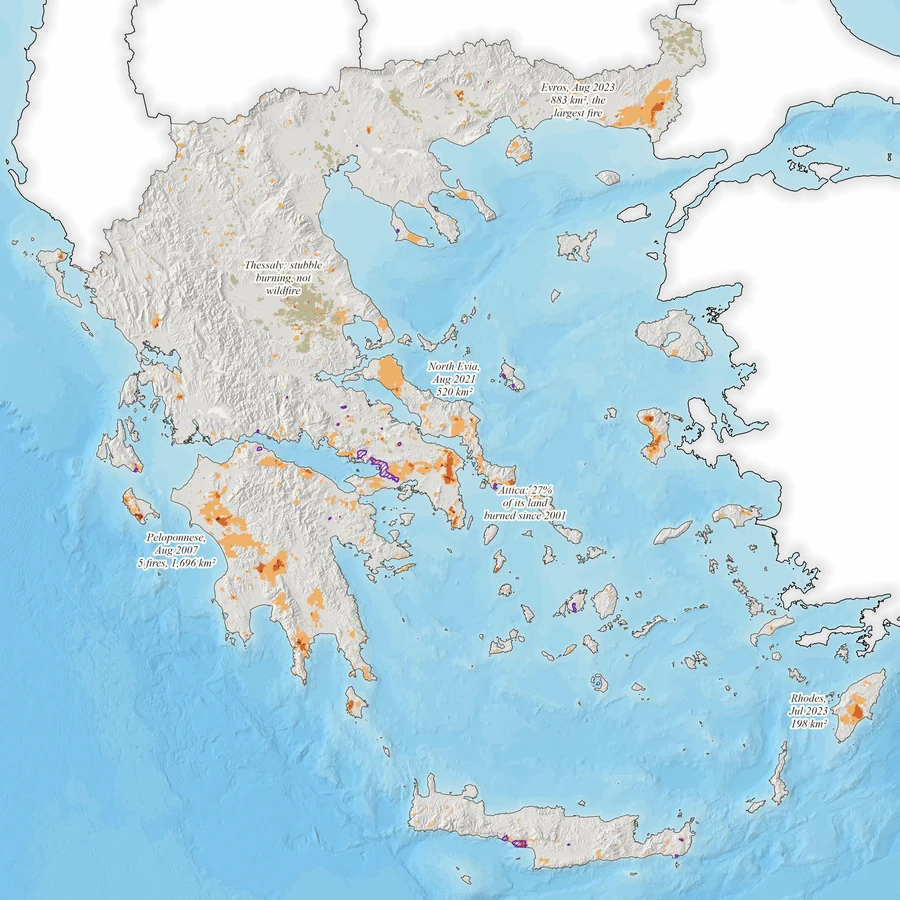
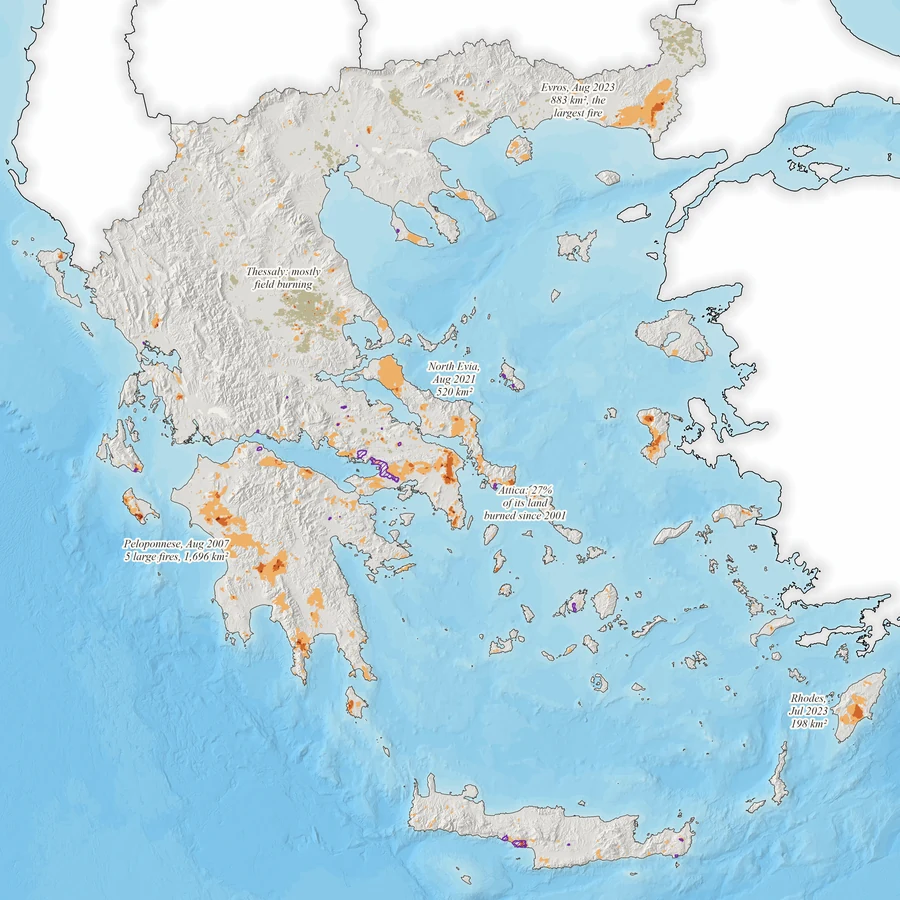
Day 29: error check (land cover judged on the fires after the 2018 map, with and without 2021 and 2023; arable patches called likely farm burning; heat matched by place and date; threshold range, counts and causes corrected)

Changed region(s): [[0.1244, 0.5911, 0.28, 0.6533], [0.2489, 0.28, 0.3733, 0.3422]]

diff --git a/src/content/projects/30dmc-2026-day-29-raster.md b/src/content/projects/30dmc-2026-day-29-raster.md
@@ -1,6 +1,6 @@
 ---
 title: 'Day 29 - Raster: What Burns'
-summary: 'Twenty-five fire seasons of MODIS burned area over Greece, laid on land cover, terrain and buildings. 38% of what the satellite marks as burned turns out to be farm burning; of the wildfire, shrubland burns most and broad-leaved forest least, and in Attica 27% of the land has burned since 2001. Pick a land cover or a slope and see where it burned.'
+summary: 'Twenty-five fire seasons of MODIS burned area over Greece, laid on land cover, terrain and buildings. 38% of the burned area is in patches mostly on arable land, likely farm burning; of the wildfire since the 2018 land cover map, woodland-shrub burned twice its share, and in Attica 27% of the land has burned since 2001. Pick a land cover or a slope and see where it burned.'
 date: 2026-11-29
 created: 2026-11-22
 category: '30-day-map-challenge'
@@ -8,7 +8,7 @@ context: '#30DayMapChallenge 2026 · Day 29'
 tags: ['ArcGIS Pro', 'Python', 'Leaflet', 'Wildfire', 'Remote sensing']
 image: '/images/30dmc-2026-day-29-wide.webp'
 imageFull: '/images/30dmc-2026-day-29-full.webp'
-imageAlt: 'Printed A4 sheet titled What Burns: Greece in grey relief with land burned by wildfire in 2001-2025 in pale to deep orange, farm burning in khaki on the plains of Thessaly and Thrace, and the 2026 wildfires hatched purple; notes name Evros 2023, North Evia 2021, the Peloponnese fires of 2007 and Rhodes 2023; a close-up of Attica shows burns reaching the edge of Athens, and a column charts the burned area of every year; the side panel holds a legend, a bar chart of how often each land cover burns against its share, a rose and bars for slope direction and steepness, and a chart of the burned area by month'
+imageAlt: 'Printed A4 sheet titled What Burns: Greece in gray relief with land burned by wildfire in 2001-2025 in pale to deep orange, likely farm burning in khaki, most of it on the plains of Thessaly and Thrace, and the 2026 wildfires hatched purple; notes name Evros 2023, North Evia 2021, the Peloponnese fires of 2007 and Rhodes 2023; a close-up of Attica shows burns reaching the edge of Athens, and a column charts the burned area of every year; the side panel holds a legend, a bar chart of how much of each 2018 land cover burned in 2019-2025 against its share, a rose and bars for slope direction and steepness, and a chart of the burned area by month'
 thumbnail: '/images/30dmc-2026-day-29-square.webp'
 thumbnailAlt: 'Map of Greece with wildfire burns in shades of orange, farm burning in khaki and the 2026 wildfires hatched purple'
 dataSource:
@@ -37,93 +37,99 @@ downloads:
     note: 'JPEG · 4724 × 4724 · 3.4 MB'
 map: '/data/30dmc-2026-day-29-burns.json'
 mapComponent: 'what-burns'
-mapCaption: 'Pick a land cover, a slope direction or a slope band: the land it covers is tinted blue and the wildfire on it shows in orange, the rest in grey. Click anywhere for its cover, slope and fire record.'
+mapCaption: 'Pick a land cover, a slope direction or a slope band: the land it covers is tinted blue and the wildfire on it shows in orange, the rest in gray. Click anywhere for its cover, slope and fire record.'
 draft: true
 ---
 
 **Prompt:** Raster.
 
-Every Greek summer burns, and since November 2000 a NASA satellite product,
-MODIS MCD64A1, has mapped where: 17,972 burn patches over Greece, each the land
-that burned on one day, at 500 m. This sheet lays twenty-five complete fire
-seasons, 2001 to 2025, on a 100 m grid of the land and asks what burns: which
-land cover, which slopes, and how close to people.
+Since November 2000 a NASA satellite product, MODIS MCD64A1, has mapped burned
+land over Greece: 17,972 patches to May 2026, each the land that burned on one
+day, at 500 m. This sheet lays twenty-five complete fire seasons, 2001 to 2025,
+on a 100 m grid and asks what burns: which land cover, which slopes, and how
+close to buildings.
 
 ## Not every burn is a wildfire
 
-The first result was wrong. Counted as they come, the burns made non-irrigated
-arable land burn 2.6 times its share of the land and rice fields 5.6 times,
-while forest burned less than half its share. MODIS sees every fire, including
-the stubble farmers burn off after the harvest, and some fields on the plains
-of Thessaly and Thrace burned in 12 of the 25 seasons.
+Counted as they come, the burns made non-irrigated arable land burn 2.6 times
+its share of the land and rice fields 5.6 times. MODIS also sees fields being
+burned, and some on the plain of Thessaly burned in 12 of the 25 seasons.
 
 So every patch is sorted first. A patch at least half on arable land (CORINE
-classes 211 to 213) counts as farm burning, the rest as wildfire. By that rule
-11,183 of the 17,916 patches, and **38% of the burned area, are farm burning**.
-The share moves little with the threshold: 36% at a third, 40% at seven
-tenths.
+classes 211 to 213) counts as likely farm burning, the rest as wildfire. By that
+rule 11,183 of the 17,916 patches, and **38% of the burned area**, are set
+apart. The share moves little with the threshold: 40% if three tenths of a patch
+must be arable, 36% if seven tenths.
 
-The split is made from land cover alone, so the fires' own heat can test it.
-The active-fire detections of MODIS and VIIRS measure each fire pixel's
-radiative power:
+The rule infers farm burning from land cover; nothing on the ground confirms it.
+The heat of the fires is a partial check. Each active fire was matched to the
+patch it lies in, within eight days of the patch's date:
 
-| Sensor | Farm burning, median | Wildfire, median | Farm burning, top 10% from | Wildfire, top 10% from |
+| Sensor | Likely farm burning, median | Wildfire, median | Farm, top 10% from | Wildfire, top 10% from |
 | --- | ---: | ---: | ---: | ---: |
-| MODIS (Terra, Aqua) | 13 MW | 56 MW | 46 MW | 409 MW |
-| VIIRS (Suomi NPP) | 4 MW | 10 MW | 13 MW | 70 MW |
-| VIIRS (NOAA-20) | 4 MW | 10 MW | 11 MW | 84 MW |
+| MODIS (Terra, Aqua) | 20 MW | 67 MW | 72 MW | 476 MW |
+| VIIRS (Suomi NPP) | 6 MW | 11 MW | 25 MW | 75 MW |
+| VIIRS (NOAA-20) | 6 MW | 11 MW | 50 MW | 89 MW |
 
-Farm burns are weaker by four times at the median on MODIS and by five to
-nine times at the top. The seasons part too: farm burning peaks in October,
-after the autumn harvests, wildfire in August. And farm burning all
-but stopped after 2020, from about 300 km² a year to under 50.
+The fires on the arable patches are weaker, by 3.3 times at the median on MODIS
+and 1.7 to 1.8 times on VIIRS. That fits the split without proving it. MODIS
+is not a separate witness either, as the burned-area product itself uses MODIS
+active fires; VIIRS is. The seasons differ too: the arable patches peak in
+October, wildfire in August. The arable patches shrank from about 300 km² a
+year in 2001-2020 to 46 in 2021-2025, a fall already under way by 2019. The
+data do not say why.
 
 ## What burns
 
-Of the wildfire, **9,052 km² of land burned at least once** in 2001-2025, 7%
-of Greece; 1,062 km² burned twice and 74 km² three times or more, up to seven.
-Panel A sets each land cover's share of the burned land against its share of
-all land:
+Of the wildfire, **9,052 km² of land burned at least once** in 2001-2025, 7% of
+Greece: 1,062 km² at least twice, and 74 km² three times or more, up to seven.
 
-| Land cover | Share of the land | Share of the wildfire | Burns |
-| --- | ---: | ---: | ---: |
-| Transitional woodland-shrub | 8.3% | 18.4% | 2.2× its share |
-| Sparse vegetation | 2.1% | 3.9% | 1.8× |
-| Sclerophyllous scrub (maquis) | 17.9% | 22.4% | 1.3× |
-| Olive groves | 6.3% | 6.9% | 1.1× |
-| Coniferous forest | 5.9% | 4.8% | 0.8× |
-| Broad-leaved forest | 9.8% | 3.0% | 0.3× |
-| Arable land, not irrigated | 9.0% | 2.8% | 0.3× |
+Land cover needs care. CORINE 2018 shows the land after most of these fires,
+and forest that burned in 2007 may be shrub by 2018. Measured over all 25
+seasons, conifers seemed to burn 0.8 times their share and mixed forest 1.2
+times. Panel A therefore uses only the fires after the map, 2019 to 2025:
 
-Shrub burns most. It is dry, fine and continuous fuel, and much of it is land
-that burned before and grew back as shrub. Broad-leaved forest, mostly oak and
-beech high in the north, burns least.
+| Land cover | Share of the land | Share of the wildfire, 2019-2025 | Burned, 2019-2025 | Without 2021 and 2023 |
+| --- | ---: | ---: | ---: | ---: |
+| Mixed forest | 4.6% | 11.4% | 2.5× its share | 0.6× |
+| Transitional woodland-shrub | 8.3% | 16.3% | 2.0× | 2.1× |
+| Coniferous forest | 5.9% | 8.7% | 1.5× | 0.9× |
+| Sclerophyllous scrub (maquis) | 17.9% | 21.2% | 1.2× | 1.2× |
+| Olive groves | 6.3% | 5.5% | 0.9× | 1.3× |
+| Natural grassland | 7.5% | 5.4% | 0.7× | 1.3× |
+| Broad-leaved forest | 9.8% | 5.6% | 0.6× | 0.2× |
+
+Seven seasons are few, and two of them, 2021 (North Evia) and 2023 (Evros), hold
+71% of the burned area. The last column leaves them out. Woodland-shrub burned
+about twice its share either way and broad-leaved forest stayed low; mixed
+forest and conifers depend on those two seasons, so their figures are not a
+general rate.
 
 ## Terrain
 
-On natural land, slopes facing south and south-west burn 1.14 and 1.12 times
-the average, those facing north 0.91 times: they dry out more. Steepness goes
-the other way from what fire physics alone would suggest. Fire runs faster
-uphill, yet slopes under 5 degrees burn 1.4 times the average and slopes over
-35 degrees only 0.4 times. The steep land is mostly high, cooler and wetter
-mountain, far from where fires start; the low hills are drier and next to
-people. The map does not claim that steepness protects.
+On natural land, slopes facing south and south-west burn 1.14 and 1.12 times the
+average, those facing north 0.91 times. Slopes under 5 degrees burn 1.4 times
+the average and slopes over 35 degrees 0.4 times, although fire runs faster
+uphill. Height explains part of it: land below 500 m burns 1.5 to 1.7 times the
+average, land above 800 m about a third of it or less. Below 500 m alone, the
+steepest slopes still burn less (0.45 times), for reasons not tested here. The
+map does not claim that steepness protects.
 
 ## Where it meets buildings
 
-GHSL's built-up surface for 2020 puts **76 km² of buildings within 500 m of
-land that burned** since 2001, 6.5% of all the built-up area in Greece; 11 km²
-stand within 500 m of land that burned twice or more. Attica stands out: 27%
-of its land has burned since 2001, a rate 4.3 times the country's, and 24 km²
-of its buildings, 11%, are within 500 m of a burn. The close-up shows the
-burns of Parnitha in 2007, Varnavas in 2009 and again in 2024, and Mati in
-2018, all at the edge of the city.
+GHSL's built-up surface for 2020 puts **76 km² of buildings within 500 m of land
+that burned** since 2001, 6.5% of the built-up area in Greece; 11 km² stand
+within 500 m of land that burned twice or more. Attica stands out: 27% of its
+land has burned since 2001, a rate 4.3 times the country's, and 24 km² of its
+buildings, 11%, are within 500 m of a burn. The close-up shows the burns of
+Parnitha in 2007, Varnavas in 2009 and again in 2024, and Mati in 2018.
 
-The largest single fires in the record are Evros in August 2023, 883 km², reported
-as the largest wildfire on record in the European Union, and North Evia in August 2021,
-520 km². In August 2007 five fires in the Peloponnese burned 1,696 km²
-together. 2026 to September added 314 km² of wildfire, an ordinary year
-against the 410 km² average.
+The largest fires in this record are Evros in August 2023, 883 km², and North
+Evia in August 2021, 520 km². In August 2007 five fires of more than 100 km²
+each burned 1,696 km² of the Peloponnese. A fire here is a season's wildfire
+patches that touch, merged. 2026 to September added 314 km² of wildfire: below
+the 2001-2025 mean of 410 km², which 2007, 2021 and 2023 pull up, and above the
+median of 189.
 
 ## Method
 
@@ -132,32 +138,29 @@ Everything runs as a Python pipeline (GeoPandas, rasterio, NumPy, SciPy) on the
 (EPSG:2100):
 
 1. **Burns:** each season's patches are rasterized, a cell counting once per
-   season if its centre lies in a patch. Each patch's arable share decides
-   farm burning or wildfire. The 2026 months come from the same product's
-   monthly files.
-2. **Land cover:** CORINE 2018, rasterized on the same grid. A cover's rate is
-   its burned hectare-seasons over its area and twenty-five seasons; "times its
-   share" divides that by the rate of all land.
+   season if its center lies in a patch. Each patch's arable share decides
+   likely farm burning or wildfire. June to September 2026 come from the same
+   product's monthly files.
+2. **Land cover:** CORINE 2018, rasterized on the same grid. "Times its share"
+   is a cover's share of the wildfire of 2019-2025 over its share of the land.
 3. **Terrain:** slope and aspect from the elevation model, measured on natural
-   land only (CORINE 311 to 333), so the result is not just the fuel map again.
-4. **Buildings:** GHSL's built-up square metres per hectare, summed within 100
-   m and 500 m of burned cells (a Euclidean distance transform).
-5. **Checks:** the yearly wildfire totals follow the known years (2007, 2021,
-   2023 the largest); MODIS's total for 2023, 1,717 km², compares with
-   about 1,750 km² reported nationally; the heat test above.
+   land only (CORINE 311 to 333), over all 25 seasons. The fires of 2019-2025
+   alone give the same pattern.
+4. **Buildings:** GHSL's built-up square meters per hectare, summed within 500 m
+   of burned cells (a Euclidean distance transform).
+5. **Checks:** MODIS's total for 2023, 1,717 km² with the arable patches,
+   compares with about 1,750 km² reported nationally
+   ([2025, Day 15](/projects/30dmc-2025-day-15-fire)).
 
-The sheet was made in ArcGIS Pro with arcpy, and the page's map is the same
-grid at 300 m, coloured in the browser.
+The sheet was made in ArcGIS Pro with arcpy, and the page's map is the same grid
+at 300 m, colored in the browser.
 
 ## Limits
 
-- MODIS sees at 500 m: it misses most fires under 100 ha and blurs the edges of
-  large ones. The totals are the satellite's, not the Fire Service's.
-- CORINE 2018 shows the land after many of these fires. Forest that burned in
-  2007 may be shrub by 2018, which makes shrub look more flammable and forest
-  less than the cover before the fire would.
-- The farm rule is simple. Wildfires that run through farmland count as farm
-  burning when the farmland is most of the patch, and stubble fires that spread
-  into scrub count as wildfire.
+- MODIS sees at 500 m. It misses more than half of the fires between 10 and 100
+  hectares and blurs the edges of large ones; the 100 m grid adds no detail. The
+  totals are the satellite's, not the Fire Service's.
+- The farm rule is simple. Wildfires that run mostly through arable land count
+  as farm burning, and field fires that spread into scrub count as wildfire.
 - The building figure is exposure, not damage: it counts what stands near land
   that burned, not what burned.
